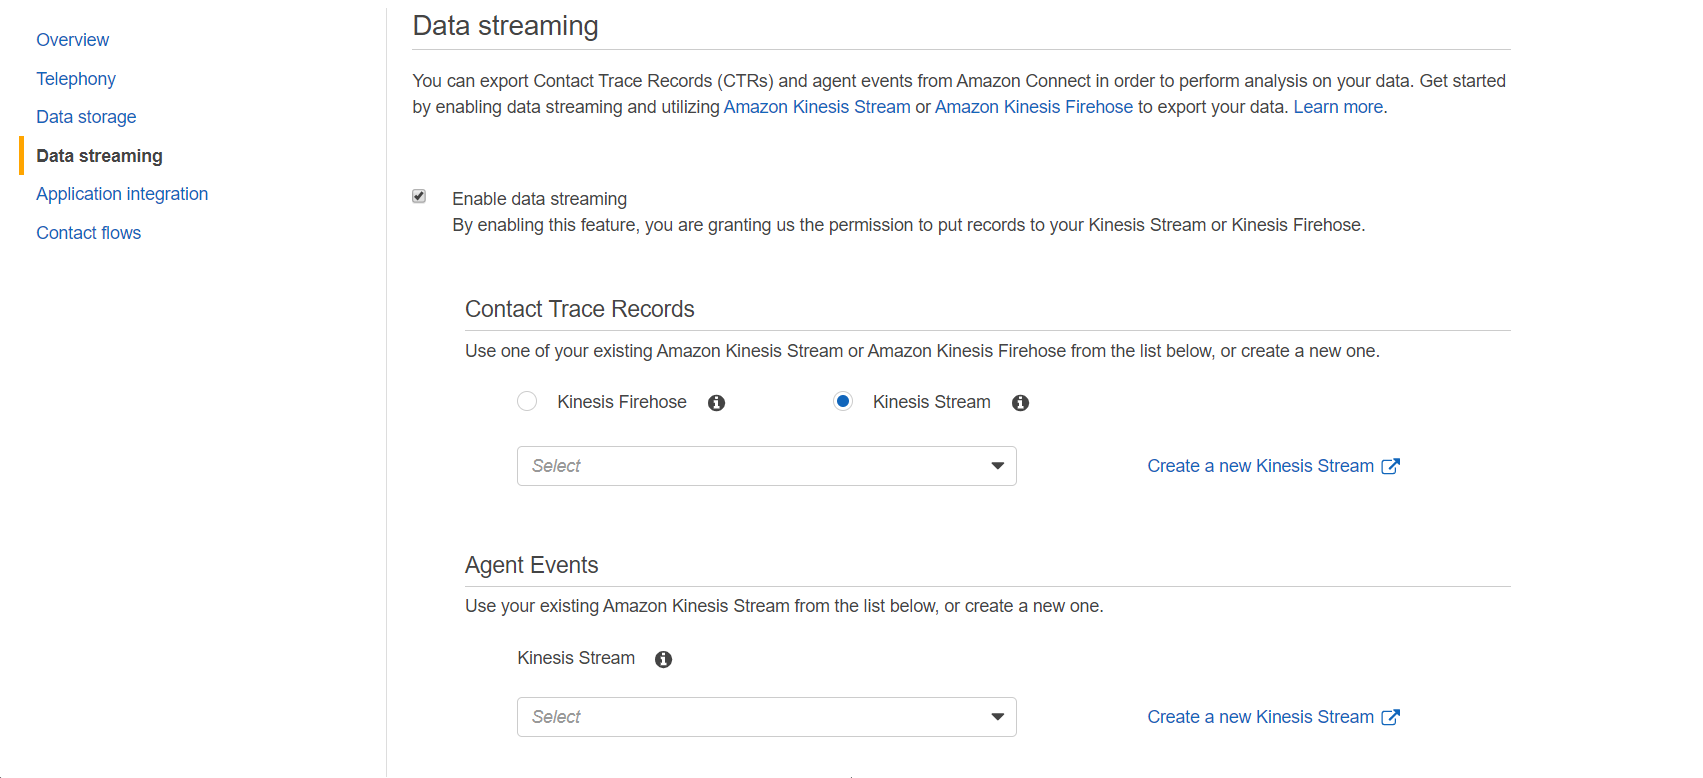
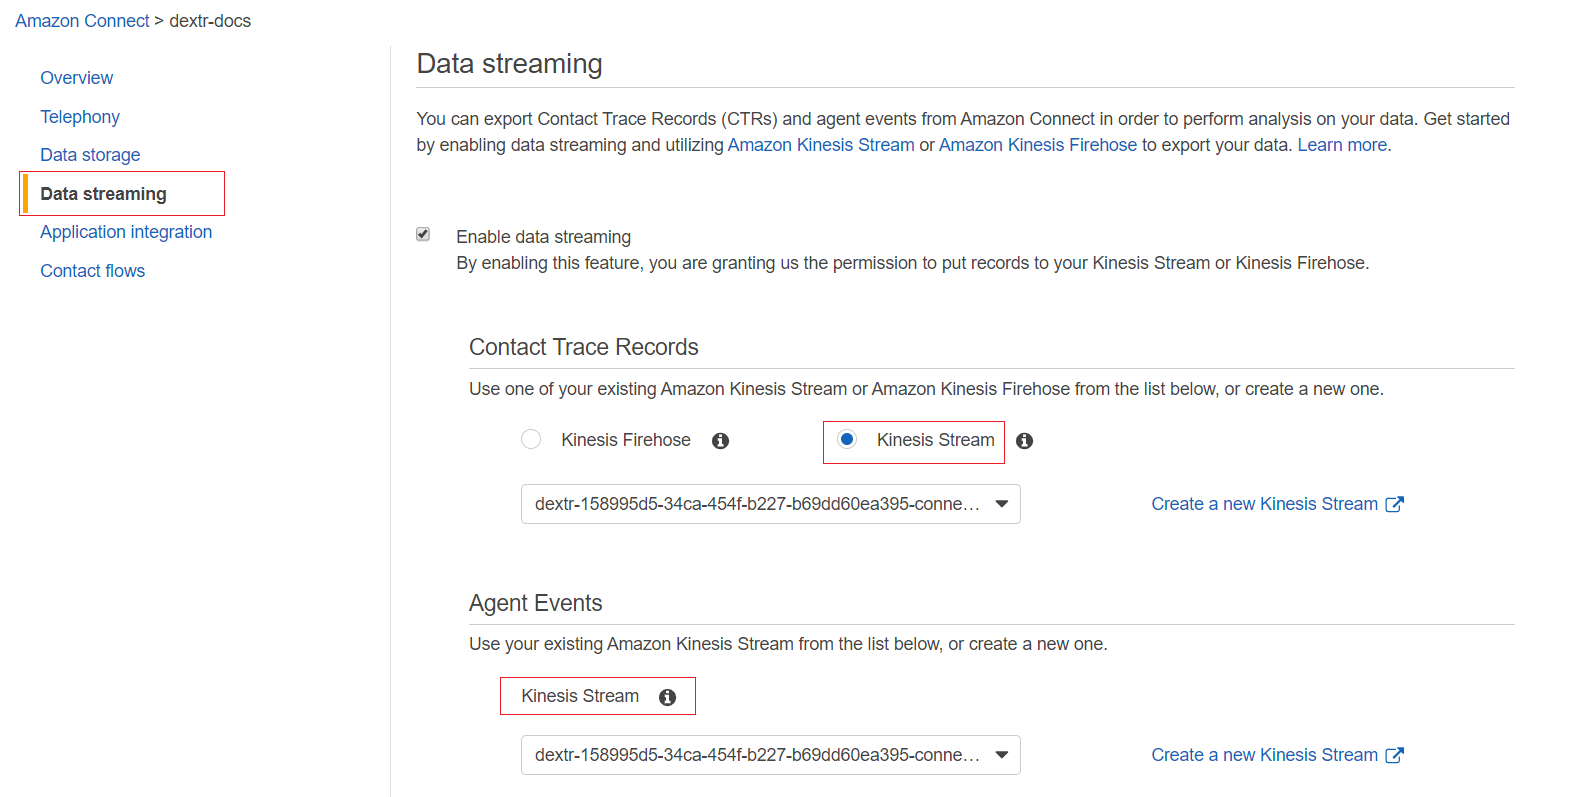
onboarding finishing touches

diff --git a/docs/_pages/onboarding.md b/docs/_pages/onboarding.md
@@ -83,29 +83,56 @@ After clicking the Claim Instance button, a modal window will pop up prompting y
 
 #### Step 3. Grant Access 
 
-- In order to grant access, we must first deploy a few resources in the AWS environment. When clicking the Deploy Resources button, you'll redirected to AWS in order to create a Stack. After the Stack is created you'll have to wait for some Events to finish deployment and for the Output tab to have both your Access and Secret keys. This might take a few minutes, but when AWS gives you both keys, you can copy/paste them into their respective field and proceed forward.
+- In order to grant access, we must first deploy a few resources in the AWS environment. When clicking the Deploy Resources button, you'll redirected to AWS in order to create a Stack. After the Stack is created you'll have to wait for some Events to finish deployment and for the Output tab to have both your Access and Secret keys. This might take a few minutes, but when AWS gives you both keys, you can copy/paste them into their respective field.
 <figure>
-   <img src="{{ '/assets/images/step3.png' }}" alt="Deploy Resources">
-   <span >Figure 9. Deploy Resources</span>
+   <img src="{{ '/assets/images/deploy-resources.gif' }}" alt="Deploy Resources">
+</figure>
+
+- After pasting both keys, you can verify credentials and proceed forward to the next step.
+<figure>
+   <img src="{{ '/assets/images/credentials-verified.png' }}" alt="Credentials verified">
+   <span >Figure 9. Credentials verified Step 3</span>
 </figure>
 ----
 
 #### Step 4. Data Stream
 
-- In this step you can export Contact Tracer Records (CTRs) and Agent Events to perform analysis on your data. You can do so by enabling data streaming in the **Data Streaming** tab in Amazon Connect (Figure 10) and set a Kinesis stream with your InstanceID, both in the CTR and Agent Events section. If you'd like you could also create a new Kinesis Stream, having one for CTR and another one for Agent Events.
+- In this step you can export Contact Tracer Records (CTRs) and Agent Events to perform analysis on your data. You can do so by enabling data streaming in the **Data Streaming** tab in Amazon Connect (Figure 10), then set a Kinesis stream with your InstanceID for both CTR and Agent Events. If you'd like you could also create a new [Kinesis Stream](https://docs.aws.amazon.com/streams/latest/dev/introduction.html) to have one for CTR and another one for Agent Events.
 
 <figure>
-   <img src="{{ '/assets/images/step4.png' }}" alt="Deploy Resources">
-   <span >Figure 10. Data Streaming</span>
+   <img src="{{ '/assets/images/step4.png' }}" alt="Kinesis Stream">
+   <span >Figure 10. Kinesis Stream</span>
 </figure>
 ----
-After setting up the Data Streaming in Amazon Connect, you can verify it in Step 4 from the onboarding process and then proceed to the next step. If you don't want to set up Data Streaming, you can skip this step and proceed to Step 5.
+After setting up the Data Stream in Amazon Connect, you can click the Generate Data button from the onboarding process, get the Connected status and proceed to the next step (Figure 11). If you don't want to set up Data Streaming, you can skip this step and proceed to Step 5.
 
-#### Step 5. Choosing Timezone
+<figure>
+   <img src="{{ '/assets/images/connected-step4.png' }}" alt="Connected Stream">
+   <span >Figure 11. Stream Connected</span>
+</figure>
+----
 
-- You can choose and set a Timezone for your Instance. This is important as this is the time that will be displayed when creating Events through the Hours of Operation tab in the Settings dashboard from Dextr.
+#### Step 5. Choosing Timezone and Directory
 
-#### Step 6. Summary
+- You can set a Timezone and Directory for your Instance (Figure 12). This is important as this is the time that will be displayed when creating Events through the Hours of Operation tab in the Settings Dashboard from Dextr.
 
-- Lastly, in this step you'll be shown a summary of all the chosen data when going through the Onboarding process. If you're having second thoughts you can always go to a previous step and change it. After this, you'll be redirected to your Call center as the Instance administrator!
+<figure>
+   <img src="{{ '/assets/images/step5.png' }}" alt="Timezone">
+   <span >Figure 12. Timezone and Directory</span>
+</figure>
+----
 
+#### Step 6. Review and Confirm
+
+- And finally the last step. In this step you'll be shown a summary of all the data that was chosen in the Onboarding process. If you're having second thoughts you can always go to a previous step and change the information or data that you chose. 
+<figure>
+   <img src="{{ '/assets/images/step6.png' }}" alt="Summary">
+   <span >Figure 13. Review and Confirm</span>
+</figure>
+----
+After this, you can click the **Go to Dashboard** button and you'll be redirected to your Call center as the Instance administrator!
+
+Congratulations, you're now able to enjoy Dextr features and Supercharge your Call Center!
+<figure>
+   <img src="{{ '/assets/images/IA-login.png' }}" alt="Instance Admin Login">
+</figure>
